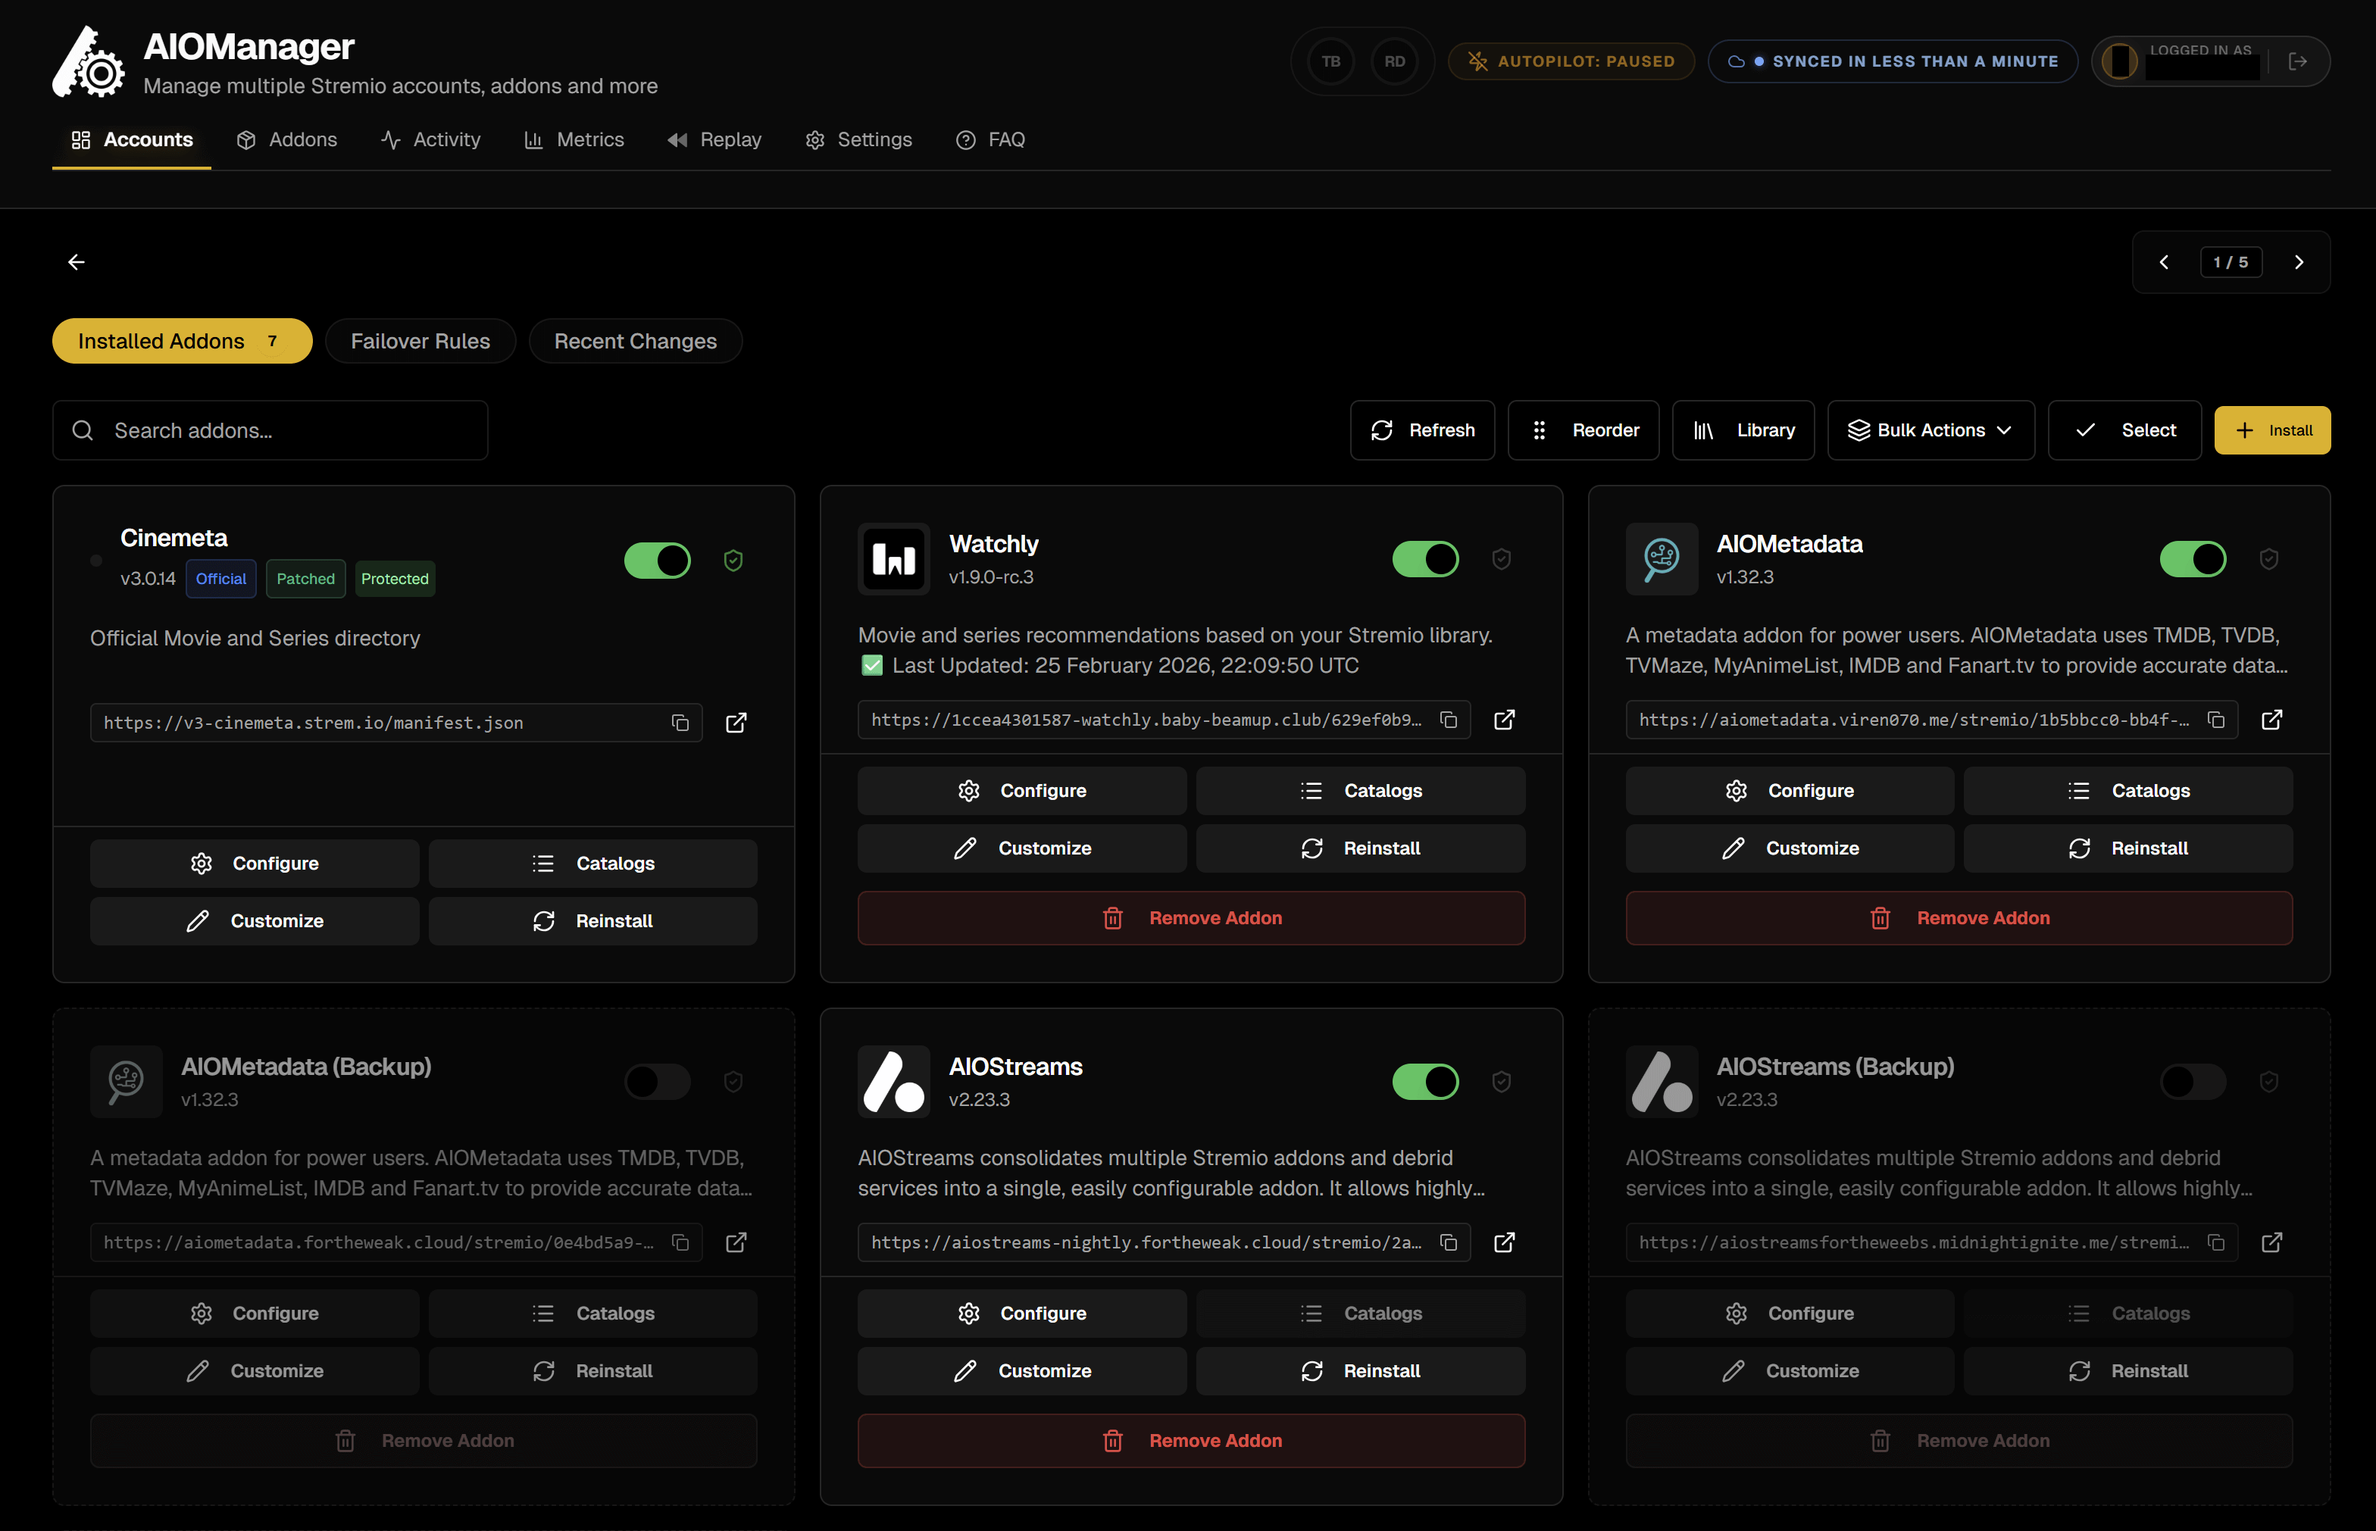
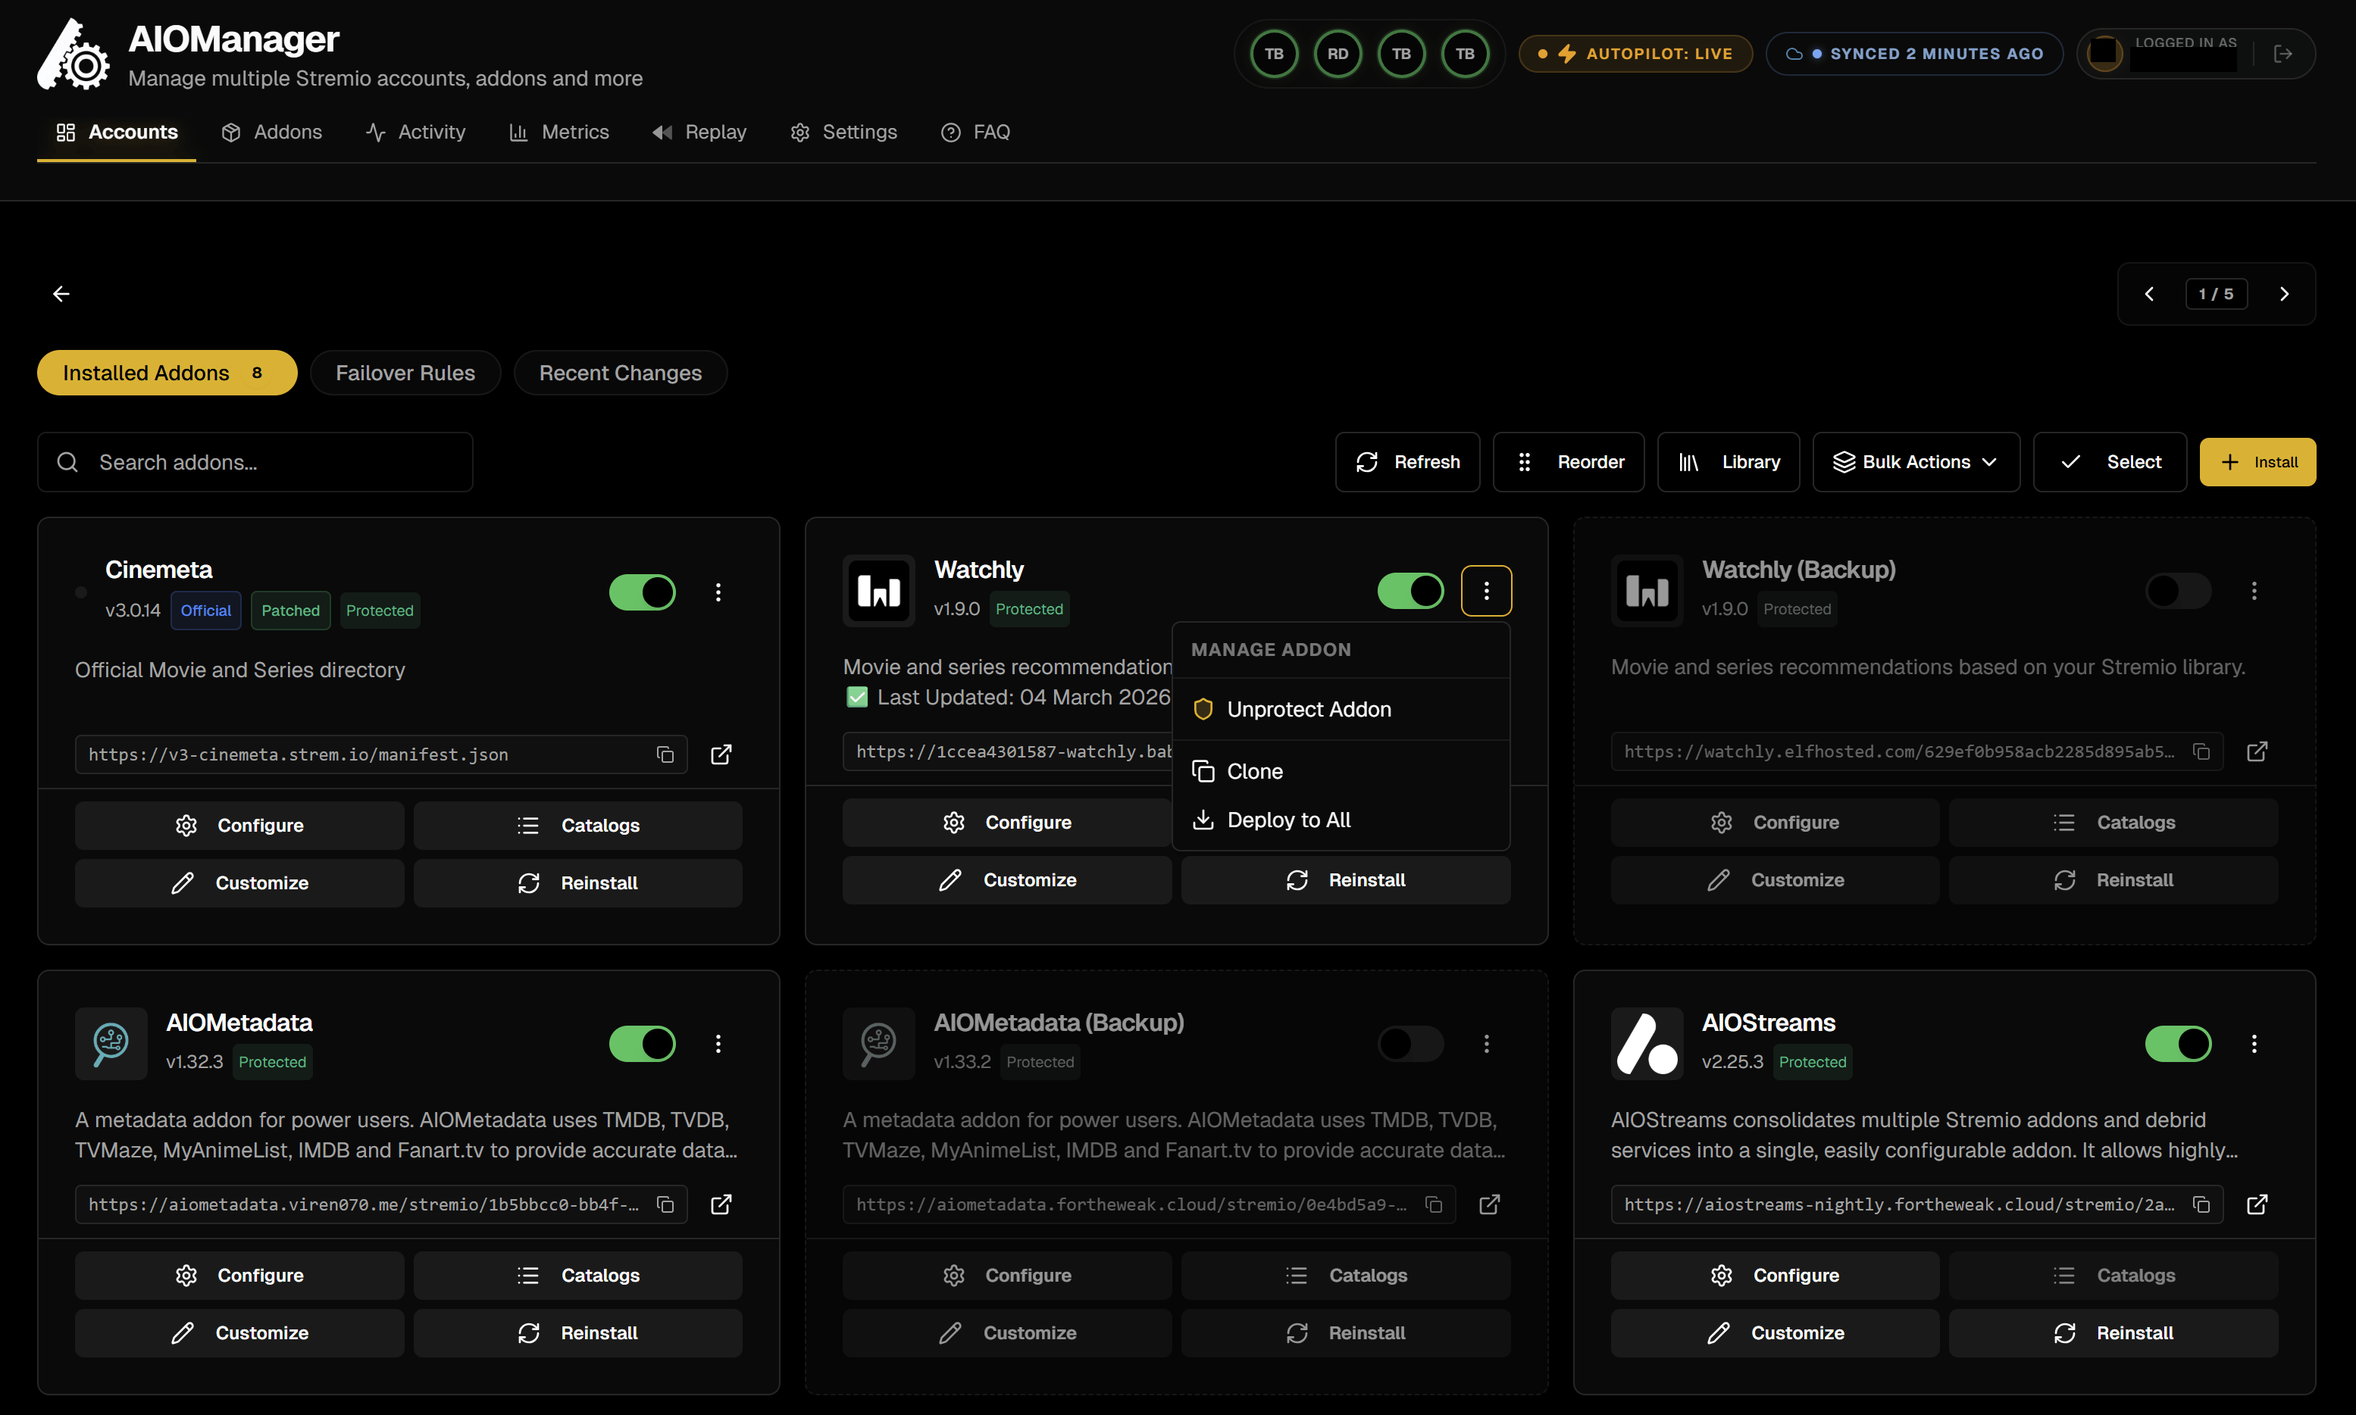
aioman

diff --git a/docs/guide/AIOManager-Setup.md b/docs/guide/AIOManager-Setup.md
@@ -47,7 +47,7 @@ AIOManager has a lot of options to manage addons: install, configure, order, rem
 * **Bulk Actions**:
    * **Force Reinstall All**: Refresh the addon installations (*good when making changes to AIOMetadata catalogs, just like refreshing with Cinebye*).
    * **Save All to Library**: Save addons in the personal addons library (**Saved Addons** tab) so that you can reuse them in another account or keep them for later.
-   * **Protect All**: Lock all addons from being deleted inadvertently.
+   * **Protect/Unprotect All**: Lock or unlock all addons from being deleted inadvertently.
    * **Enable/Disable All**: Enable or disable all addons in your Stremio account.
 * **Install**: Install a new addon in the account through the manifest URL.
 * For each addon, you can press:
@@ -57,7 +57,10 @@ AIOManager has a lot of options to manage addons: install, configure, order, rem
    * **Reinstall** to refresh the installation if needed.
    * **Remove** to uninstall the addon.
    * **Enable/Disable** the addon through the toggle (which will actually install/remove it on the Stremio account every time you toggle).
-   * **Protect**: Lock the addon from being deleted inadvertently.
+   * **Three Dots Menu**:
+      * **Protect/Unprotect** the addon from being deleted inadvertently.
+      * **Clone** to copy the addon into another account.
+      * **Deploy to all** to copy the addon into all other accounts directly.
 * While inside an account, if you click on "**Select**" and select one or more addons, you will also see options for them, including a **Save** option to save them to the library.
 * If you go back to the **Accounts** tab where you see your Stremio accounts, you can click "**Select**", select an account, and then click on "**Bulk Actions**".
    * Here you will see many options that you can do between accounts, including **Mirror from Account**, which can copy the entire account setup (addons and order) into another account.
@@ -69,8 +72,9 @@ Here's a screenshot of how an account with installed addons looks like (*see Aut
 * The **Saved Addons** tab contains your personal addon library.
    * Here you can add the URLs of any addon manifest/configuration you want and keep it stored regardless of a Stremio account.
    * You can use *Profiles* and *Tags* to organize them, which makes it easier to install or remove them from accounts in bulk.
+   * **Tip**: Click **Edit** from the three dots on the right of an addon you added here, and enable "**Keep in sync with installed versions**" to keep the addon synced everywhere, for example to update automatically if you change the name or the manifest URL.
 * The **Activity** and **Metrics** tabs show the watch activity and some fun analytics of the accounts you have added.
-* The **Replay** tab is a very cool feature inspired by Apple Music Replay / Spotify Wrapped, where you can see a lot of visually beautiful statistics and exciting information about the watching behavior of all your accounts.
+* The **Replay** tab is a very cool feature inspired by Apple Music Replay / Spotify Wrapped, where you can see a lot of visually beautiful statistics and exciting information about the watching behavior of all your accounts. You can have an aggregated view for all accounts, or select which account and/or which year or month you want to view. If you scroll to the bottom, you can also get a *shareable link* so others can view directly without an AIOManager account.
 
 ## Autopilot (Automatic Failover)
 
